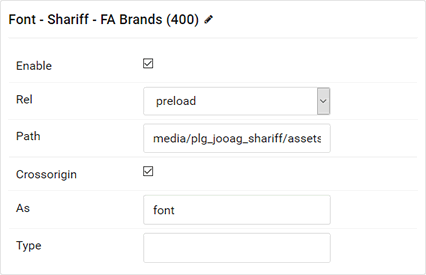
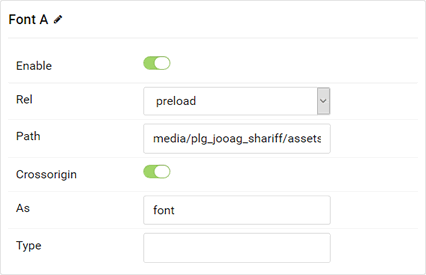
screenshots updated, prep. for v1.0.3

diff --git a/README.md b/README.md
@@ -9,22 +9,22 @@ This project contains a Gantry Atom that provides the functionality to manually 
 * Gantry Templating Framework and Theme - **at least v5.4.24**
 
 ## Download
-Choose the correct download for your target platform. The Joomla Plugin System is supported for all Gantry themes globally or locally for the templates Helium and Hydrogen. The latest Atom version is **v1.0.2**.
+Choose the correct download for your target platform. The Joomla Plugin System is supported for all Gantry themes globally or locally for the templates Helium and Hydrogen. The latest Atom version is **v1.0.3**.
 ___
 **Default Atom:**
-[English](https://github.com/thexmanxyz/Preload-Resources-Gantry/releases/download/v1.0.2/pra.atom.only.EN.v1.0.2.zip) / [German](https://github.com/thexmanxyz/Preload-Resources-Gantry/releases/download/v1.0.2/pra.atom.only.DE.v1.0.2.zip)
+[English](https://github.com/thexmanxyz/Preload-Resources-Gantry/releases/download/v1.0.3/pra.atom.only.EN.v1.0.3.zip) / [German](https://github.com/thexmanxyz/Preload-Resources-Gantry/releases/download/v1.0.3/pra.atom.only.DE.v1.0.3.zip)
 
 **Legacy Atom - Gantry <5.3.2:**
-[English](https://github.com/thexmanxyz/Preload-Resources-Gantry/releases/download/v1.0.2/pra.atom.only.legacy.EN.v1.0.2.zip) / [German](https://github.com/thexmanxyz/Preload-Resources-Gantry/releases/download/v1.0.2/pra.atom.only.legacy.DE.v1.0.2.zip)
+[English](https://github.com/thexmanxyz/Preload-Resources-Gantry/releases/download/v1.0.3/pra.atom.only.legacy.EN.v1.0.3.zip) / [German](https://github.com/thexmanxyz/Preload-Resources-Gantry/releases/download/v1.0.3/pra.atom.only.legacy.DE.v1.0.3.zip)
 
 **Joomla Plugin - All Templates (Global):**
-[English](https://github.com/thexmanxyz/Preload-Resources-Gantry/releases/download/v1.0.2/pra.j3.global.EN.v1.0.2.zip) / [German](https://github.com/thexmanxyz/Preload-Resources-Gantry/releases/download/v1.0.2/pra.j3.global.DE.v1.0.2.zip)
+[English](https://github.com/thexmanxyz/Preload-Resources-Gantry/releases/download/v1.0.3/pra.j3.global.EN.v1.0.3.zip) / [German](https://github.com/thexmanxyz/Preload-Resources-Gantry/releases/download/v1.0.3/pra.j3.global.DE.v1.0.3.zip)
 
 **Joomla Plugin - Hydrogen:**
-[English](https://github.com/thexmanxyz/Preload-Resources-Gantry/releases/download/v1.0.2/pra.j3.hydrogen.EN.v1.0.2.zip) / [German](https://github.com/thexmanxyz/Preload-Resources-Gantry/releases/download/v1.0.2/pra.j3.hydrogen.DE.v1.0.2.zip)
+[English](https://github.com/thexmanxyz/Preload-Resources-Gantry/releases/download/v1.0.3/pra.j3.hydrogen.EN.v1.0.3.zip) / [German](https://github.com/thexmanxyz/Preload-Resources-Gantry/releases/download/v1.0.3/pra.j3.hydrogen.DE.v1.0.3.zip)
 
 **Joomla Plugin - Helium:**
-[English](https://github.com/thexmanxyz/Preload-Resources-Gantry/releases/download/v1.0.2/pra.j3.helium.EN.v1.0.2.zip) / [German](https://github.com/thexmanxyz/Preload-Resources-Gantry/releases/download/v1.0.2/pra.j3.helium.DE.v1.0.2.zip)
+[English](https://github.com/thexmanxyz/Preload-Resources-Gantry/releases/download/v1.0.3/pra.j3.helium.EN.v1.0.3.zip) / [German](https://github.com/thexmanxyz/Preload-Resources-Gantry/releases/download/v1.0.3/pra.j3.helium.DE.v1.0.3.zip)
 ___
 
 ## Automatic Installation (Joomla only)
